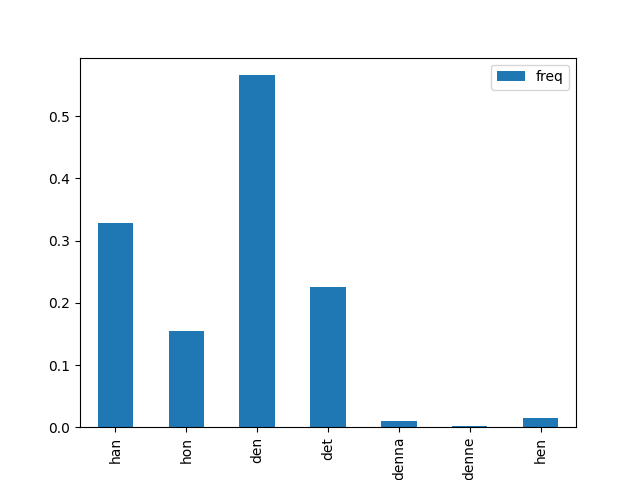
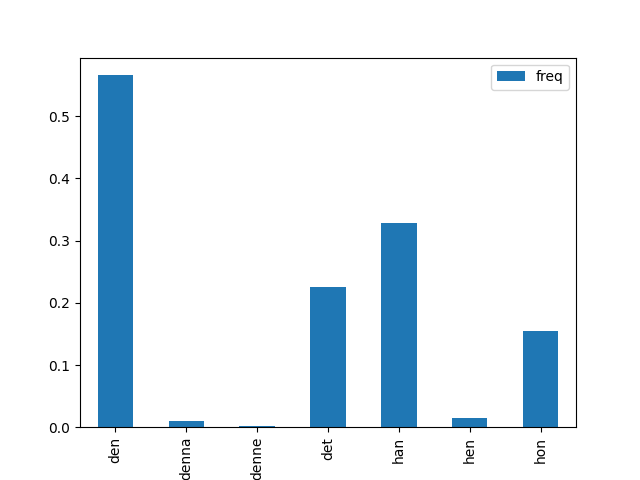
sorted

diff --git a/A2/tweets_analysis/db-access.py b/A2/tweets_analysis/db-access.py
@@ -9,6 +9,7 @@ collection_tweets = db.collection_tweets
 unique_tweet_count = db.collection_tweets.count() # fetch total doc. count in the collection
 
 pronouns = ["han","hon","den","det","denna","denne","hen"] # pronouns to search for in each tweet
+pronouns.sort()
 
 for x in pronouns:
     counter = 0

diff --git a/A2/tweets_analysis/plot.py b/A2/tweets_analysis/plot.py
@@ -14,4 +14,4 @@ data = pd.read_csv(input_file, sep="\t", header=None, names=['pronouns', 'freq']
 data['freq'] = data['freq']/unique_tweet_total
 
 data.plot(kind='bar', y='freq', x='pronouns')
-plt.savefig('output_hdfs.png')
+plt.savefig('output_mongodb.png')
